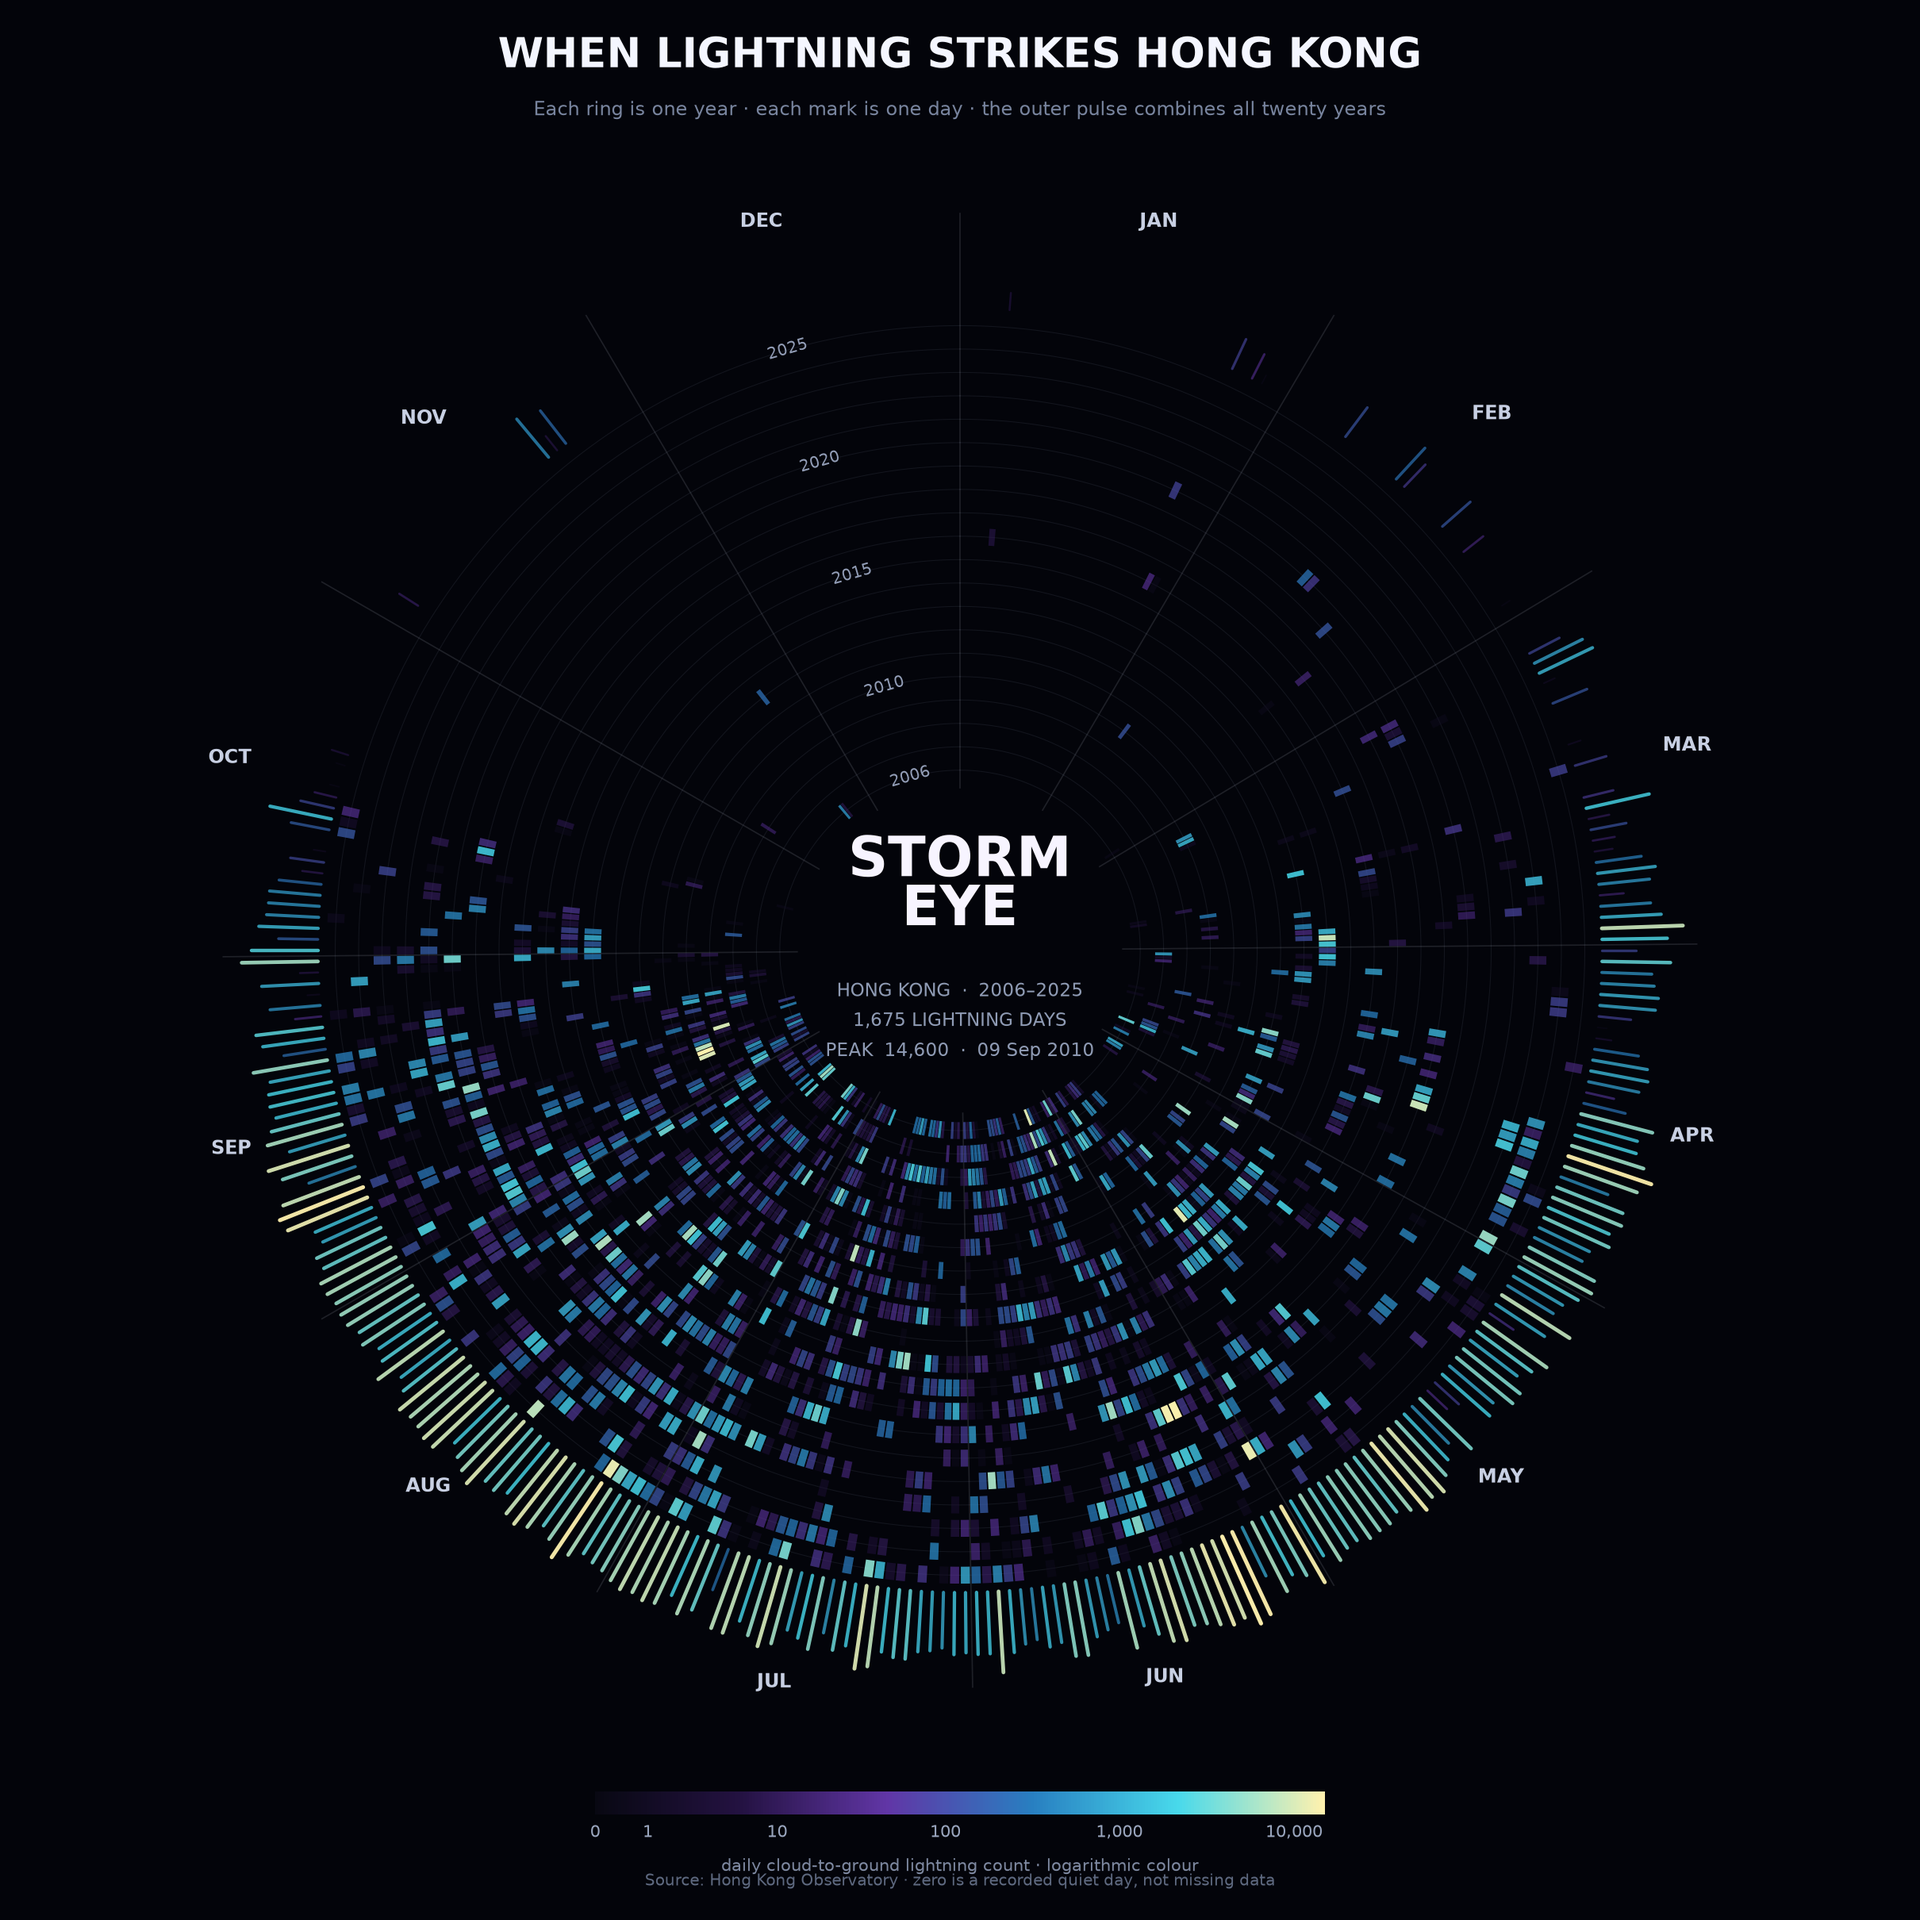
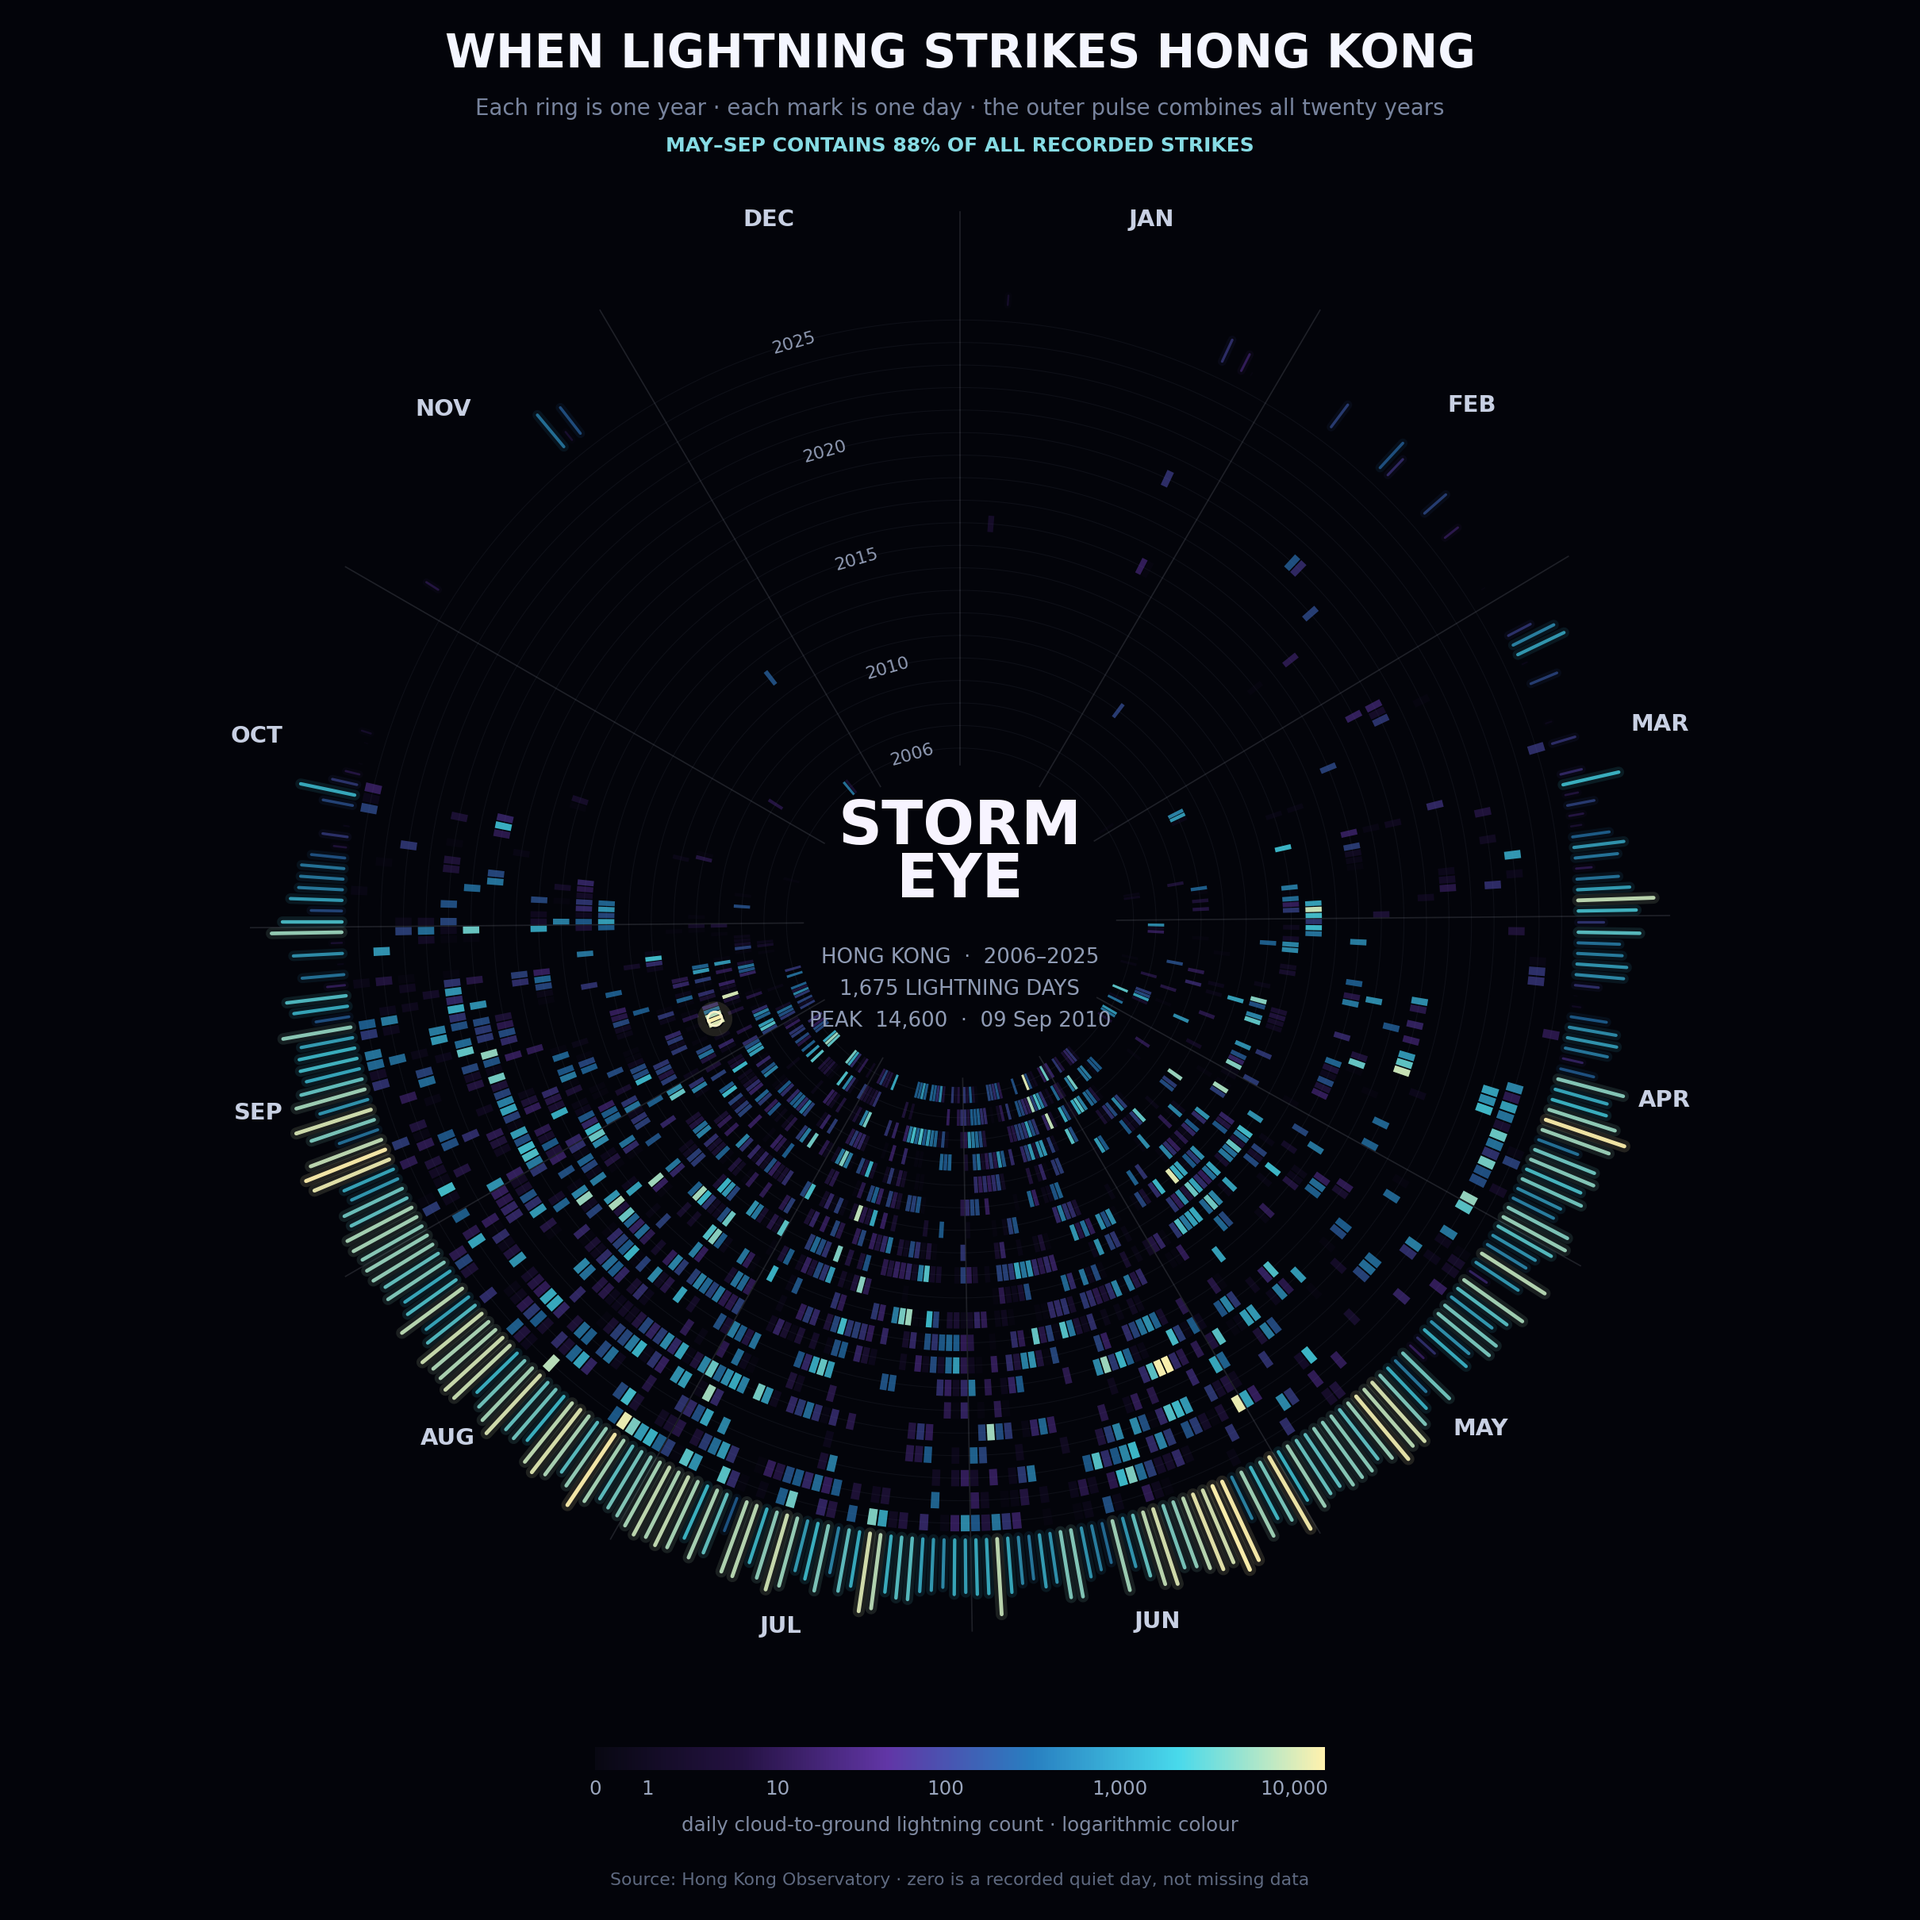
Highlight the lightning season and peak strike

diff --git a/plot.py b/plot.py
@@ -134,7 +134,7 @@ def draw_storm_eye(years, yearly, raw_counts, peak_date, peak_count):
                 bottom=base,
                 color=colours(intensity),
                 edgecolor="none",
-                alpha=0.34 + intensity * 0.66,
+                alpha=0.18 + intensity * 0.82,
             )
 
         # A faint circle keeps a quiet year legible without pretending zero is missing.
@@ -144,7 +144,7 @@ def draw_storm_eye(years, yearly, raw_counts, peak_date, peak_count):
             [base + ring_height / 2] * len(circle),
             color="#7e88a3",
             linewidth=0.35,
-            alpha=0.13,
+            alpha=0.09,
             zorder=0,
         )
 
@@ -156,17 +156,54 @@ def draw_storm_eye(years, yearly, raw_counts, peak_date, peak_count):
             continue
         theta = (day_index + 0.5) * day_angle
         strength = log_colour(total) / max_corona
-        length = 0.16 + 1.75 * strength**1.55
+        length = 0.05 + 1.86 * strength**1.75
         colour = colours(norm(log_colour(min(total, 15_000))))
+        # A broad translucent stroke gives strong days an electric halo while
+        # preserving the exact calendar angle and data-driven length.
+        glow = ax.plot(
+            [theta, theta],
+            [outer_ring + 0.18, outer_ring + 0.18 + length],
+            color=colour,
+            linewidth=2.2 + 3.0 * strength,
+            alpha=0.025 + 0.11 * strength,
+            solid_capstyle="round",
+        )[0]
+        glow.set_solid_capstyle("round")
         line = ax.plot(
             [theta, theta],
             [outer_ring + 0.18, outer_ring + 0.18 + length],
             color=colour,
             linewidth=0.55 + 1.15 * strength,
-            alpha=0.28 + 0.70 * strength,
+            alpha=0.16 + 0.82 * strength,
             solid_capstyle="round",
         )[0]
         line.set_solid_capstyle("round")
+
+    # Locate the record day in the rings instead of leaving the peak as text only.
+    if peak_date.year in years:
+        peak_ring = years.index(peak_date.year)
+        peak_theta = (calendar_position(peak_date) + 0.5) * day_angle
+        peak_radius = inner_radius + peak_ring * ring_step + ring_height / 2
+        ax.scatter(
+            [peak_theta],
+            [peak_radius],
+            s=125,
+            facecolors="none",
+            edgecolors="#fff1ae",
+            linewidths=3.2,
+            alpha=0.12,
+            zorder=5,
+        )
+        ax.scatter(
+            [peak_theta],
+            [peak_radius],
+            s=34,
+            facecolors="none",
+            edgecolors="#fff7cf",
+            linewidths=0.9,
+            alpha=0.95,
+            zorder=6,
+        )
 
     # Month boundaries and labels make the circular calendar readable.
     month_starts = [calendar_position(dt.date(2000, month, 1)) for month in range(1, 13)]
@@ -194,7 +231,7 @@ def draw_storm_eye(years, yearly, raw_counts, peak_date, peak_count):
             label_radius,
             name,
             color="#c8d0e3",
-            fontsize=8,
+            fontsize=9.5,
             fontweight="bold",
             ha="center",
             va="center",
@@ -210,7 +247,7 @@ def draw_storm_eye(years, yearly, raw_counts, peak_date, peak_count):
             radius,
             str(year),
             color="#929db6",
-            fontsize=6.5,
+            fontsize=7.2,
             ha="center",
             va="center",
             rotation=16,
@@ -218,13 +255,18 @@ def draw_storm_eye(years, yearly, raw_counts, peak_date, peak_count):
         )
 
     lightning_days = sum(count > 0 for _, count in raw_counts)
+    total_strikes = sum(count for _, count in raw_counts)
+    seasonal_strikes = sum(
+        count for date, count in raw_counts if 5 <= date.month <= 9
+    )
+    seasonal_share = seasonal_strikes / total_strikes
     ax.text(
         0.5,
         0.545,
         "STORM\nEYE",
         transform=ax.transAxes,
         color="#f7f4ff",
-        fontsize=23,
+        fontsize=25,
         fontweight="bold",
         ha="center",
         va="center",
@@ -238,7 +280,7 @@ def draw_storm_eye(years, yearly, raw_counts, peak_date, peak_count):
         f"PEAK  {peak_count:,}  ·  {peak_date:%d %b %Y}",
         transform=ax.transAxes,
         color="#8f9bb4",
-        fontsize=7.5,
+        fontsize=8.5,
         ha="center",
         va="center",
         linespacing=1.7,
@@ -250,7 +292,7 @@ def draw_storm_eye(years, yearly, raw_counts, peak_date, peak_count):
         0.965,
         "WHEN LIGHTNING STRIKES HONG KONG",
         color="#f4f6ff",
-        fontsize=17,
+        fontsize=19,
         fontweight="bold",
         ha="center",
     )
@@ -259,22 +301,31 @@ def draw_storm_eye(years, yearly, raw_counts, peak_date, peak_count):
         0.94,
         "Each ring is one year · each mark is one day · the outer pulse combines all twenty years",
         color="#78849e",
-        fontsize=8,
+        fontsize=9,
+        ha="center",
+    )
+    fig.text(
+        0.5,
+        0.921,
+        f"MAY–SEP CONTAINS {seasonal_share:.0%} OF ALL RECORDED STRIKES",
+        color="#86dbe4",
+        fontsize=8.2,
+        fontweight="bold",
         ha="center",
     )
 
     scale = plt.cm.ScalarMappable(norm=norm, cmap=colours)
-    colour_axis = fig.add_axes([0.31, 0.055, 0.38, 0.012])
+    colour_axis = fig.add_axes([0.31, 0.078, 0.38, 0.012])
     colourbar = fig.colorbar(scale, cax=colour_axis, orientation="horizontal")
     tick_counts = [0, 1, 10, 100, 1_000, 10_000]
     colourbar.set_ticks([log_colour(value) for value in tick_counts])
     colourbar.set_ticklabels([f"{value:,}" for value in tick_counts])
-    colourbar.ax.tick_params(colors="#9aa6be", labelsize=7, length=0, pad=4)
+    colourbar.ax.tick_params(colors="#9aa6be", labelsize=8, length=0, pad=4)
     colourbar.outline.set_visible(False)
     colourbar.set_label(
         "daily cloud-to-ground lightning count · logarithmic colour",
         color="#7e89a1",
-        fontsize=7,
+        fontsize=8,
         labelpad=7,
     )
     fig.text(
@@ -282,10 +333,10 @@ def draw_storm_eye(years, yearly, raw_counts, peak_date, peak_count):
         0.018,
         "Source: Hong Kong Observatory · zero is a recorded quiet day, not missing data",
         color="#5e6980",
-        fontsize=6.5,
+        fontsize=7.2,
         ha="center",
     )
-    fig.subplots_adjust(left=0.025, right=0.975, top=0.91, bottom=0.10)
+    fig.subplots_adjust(left=0.025, right=0.975, top=0.91, bottom=0.13)
 
     target = OUT / STORM_PICTURE
     fig.savefig(target, dpi=220, facecolor=fig.get_facecolor())
